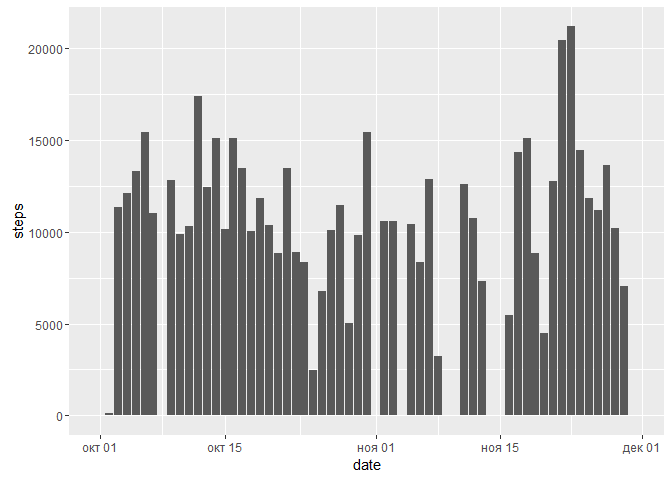
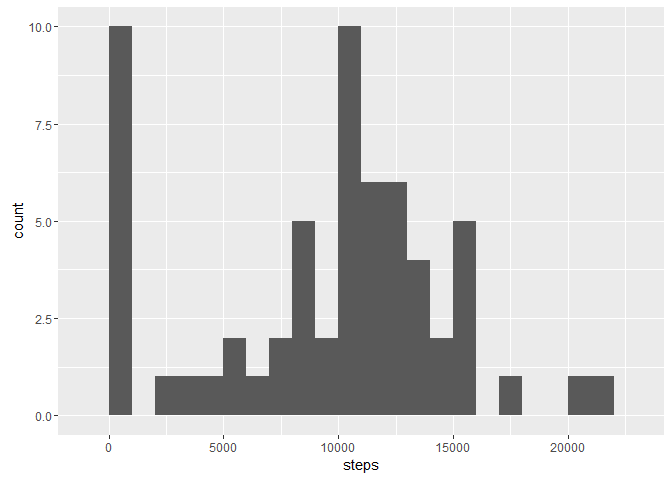
corrected errors

diff --git a/PA1_template.html b/PA1_template.html
@@ -73,8 +73,8 @@ data$date &lt;- as.Date(data$date)</code></pre>
 <h2>What is mean total number of steps taken per day?</h2>
 <pre class="r"><code>st &lt;- group_by(data,date) %&gt;%  
         summarise(steps = sum(steps, na.rm = T))  
-ggplot(data = st, aes(x=date,y=steps)) + geom_bar(stat = &quot;identity&quot;)</code></pre>
[1 lines of base64/hex data omitted]
+ggplot(data = st, aes(x=steps)) + geom_histogram(binwidth = 1000)</code></pre>
[1 lines of base64/hex data omitted]
 <pre class="r"><code>mean(st$steps)</code></pre>
 <pre><code>## [1] 9354.23</code></pre>
 <pre class="r"><code>median(st$steps)</code></pre>
@@ -97,8 +97,8 @@ data3$steps[is.na(data3$steps)] &lt;- data3$avg[is.na(data3$steps)]
 data3 &lt;-select(data3,steps,date,interval)
 st &lt;- group_by(data3,date) %&gt;%  
         summarise(steps = sum(steps, na.rm = T))  
-ggplot(data = st, aes(x=date,y=steps)) + geom_bar(stat = &quot;identity&quot;)</code></pre>
[1 lines of base64/hex data omitted]
+ggplot(data = st, aes(x=steps)) + geom_histogram(binwidth = 1000)</code></pre>
[1 lines of base64/hex data omitted]
 <pre class="r"><code>mean(st$steps)</code></pre>
 <pre><code>## [1] 10766.19</code></pre>
 <pre class="r"><code>median(st$steps)</code></pre>

diff --git a/PA1_template.md b/PA1_template.md
@@ -12,7 +12,7 @@ data$date <- as.Date(data$date)
 ```r
 st <- group_by(data,date) %>%  
         summarise(steps = sum(steps, na.rm = T))  
-ggplot(data = st, aes(x=date,y=steps)) + geom_bar(stat = "identity")
+ggplot(data = st, aes(x=steps)) + geom_histogram(binwidth = 1000)
 ```
 
 ![](PA1_template_files/figure-html/unnamed-chunk-3-1.png)
@@ -65,7 +65,7 @@ data3$steps[is.na(data3$steps)] <- data3$avg[is.na(data3$steps)]
 data3 <-select(data3,steps,date,interval)
 st <- group_by(data3,date) %>%  
         summarise(steps = sum(steps, na.rm = T))  
-ggplot(data = st, aes(x=date,y=steps)) + geom_bar(stat = "identity")
+ggplot(data = st, aes(x=steps)) + geom_histogram(binwidth = 1000)
 ```
 
 ![](PA1_template_files/figure-html/unnamed-chunk-5-1.png)
